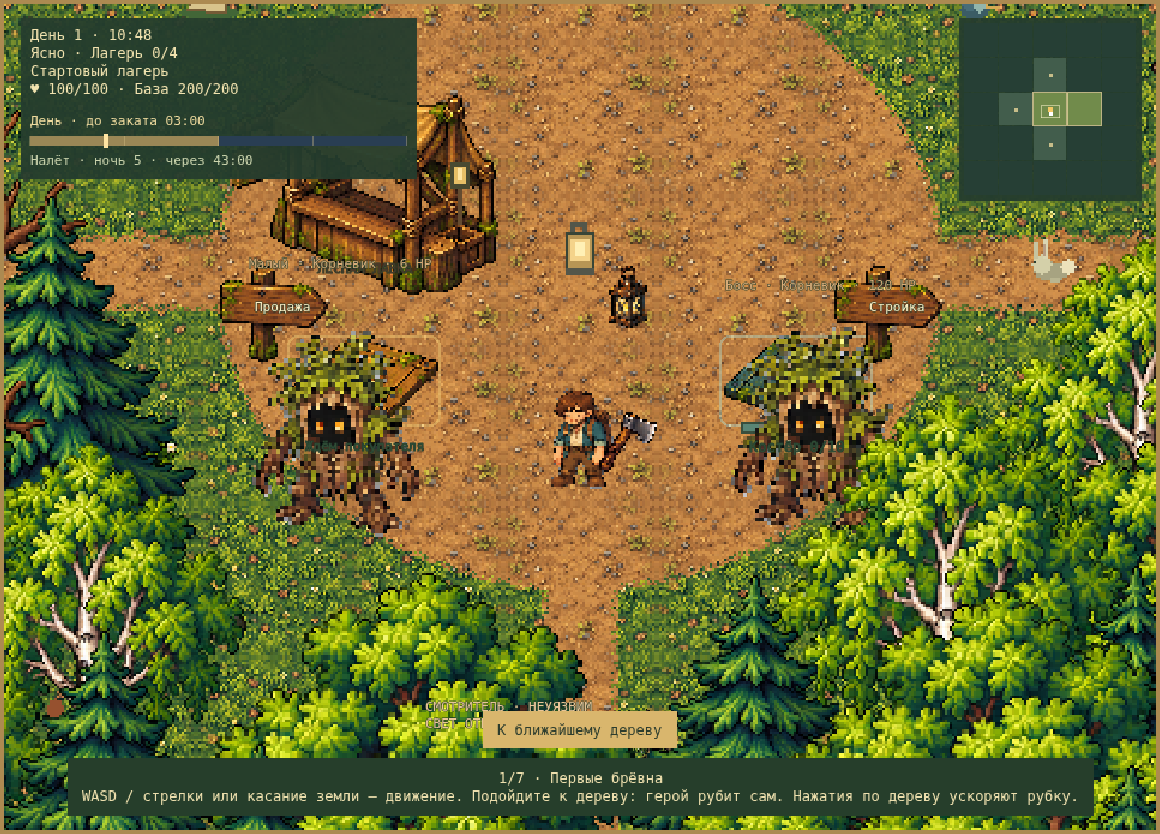
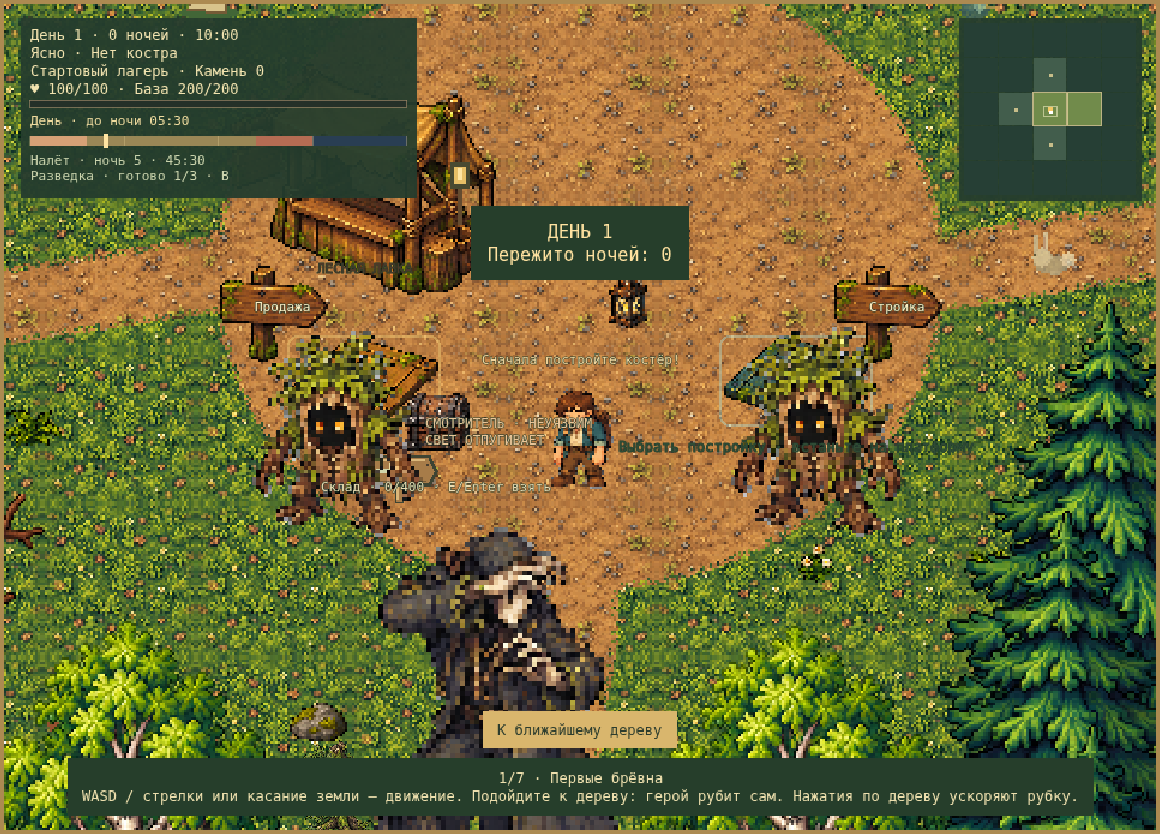
feat: enlarge watcher and add automatic campfire fuel pad

diff --git a/game/camp-services.js b/game/camp-services.js
@@ -6,22 +6,31 @@ import { campFuelLimit, campStorageLimit, industryLevel } from "./camp-industry-
 export const CAMP_SERVICE = Object.freeze({
   store: { x: 1480, y: 1740 }, door: { x: CAMP.hut.x, y: CAMP.hut.y + 28 },
   fuelPerLog: 60, maxFuel: 600, storeLimit: 400,
+  fuelPad: {x:1696,y:1616,radius:32}, fuelPadSeconds:0.8, // Стоя на площадке: одно бревно за 0,8 с, только если помещаются все 60 с топлива.
 });
 export const ROOM = Object.freeze({ width: 480, height: 352, exit: { x: 240, y: 316 }, chest: { x: 100, y: 130 } });
 
 // Shared fuel/storage; personal location and indoor movement. No renderer owns resources.
 export function createCampServices({ state, player, forestry, canAct, nav, emit = () => {} }) {
+  let fuelPadTimer=0;
   const near = p => Math.hypot(player.x - p.x, player.y - p.y) < 110 && nav.hasLineOfSight(player, p);
   const living = () => state.health > 0 && !state.gameOver;
   const lit = () => hasCampBuilding(state,"fire") && state.campFuel > 0;
+  const atFuelPad=()=>Math.hypot(player.x-CAMP_SERVICE.fuelPad.x,player.y-CAMP_SERVICE.fuelPad.y)<=CAMP_SERVICE.fuelPad.radius&&nav.hasLineOfSight(player,{x:CENTER.x,y:CENTER.y+48});
   function stoke(quoted = false, material = "wood") {
     const seconds=material==="coal"?180:CAMP_SERVICE.fuelPerLog;
-    if (!['wood','coal'].includes(material) || !(quoted ? living() : canAct()) || !near({x:CENTER.x,y:CENTER.y+48}) || !hasCampBuilding(state,"fire") ||
+    if (!['wood','coal'].includes(material) || !(quoted ? living() : canAct()) || !(near({x:CENTER.x,y:CENTER.y+48})||atFuelPad()) || !hasCampBuilding(state,"fire") ||
       (material==="wood"?!state.wood:!(state.campIndustry?.materials.coal>0)) || state.campFuel > campFuelLimit(state)-seconds) return false;
     if(material==="wood")forestry.takeCargo();else state.campIndustry.materials.coal--;
     state.campFuel += seconds;
     state.campMilestones.lit=true;
     emit("camp-stoked", {}); return true;
+  }
+  function updateFuelPad(dt){
+    if(!Number.isFinite(dt)||dt<=0)return;
+    if(!canAct()||!atFuelPad()||!hasCampBuilding(state,"fire")||!state.wood||state.campFuel>campFuelLimit(state)-CAMP_SERVICE.fuelPerLog){fuelPadTimer=0;return;}
+    fuelPadTimer+=dt;
+    if(fuelPadTimer>=CAMP_SERVICE.fuelPadSeconds){fuelPadTimer=0;stoke();}
   }
   function store(action = "deposit") {
     const atChest = player.room && Math.hypot(player.room.x - ROOM.chest.x, player.room.y - ROOM.chest.y) < 90;
@@ -73,6 +82,7 @@ export function createCampServices({ state, player, forestry, canAct, nav, emit 
     if (before && !lit()) emit("camp-extinguished", {});
     if (before && state.campFuel <= 30 && state.campFuel + dt > 30) emit("camp-low-fuel", {});
   }
-  return { near, lit, stoke, store, enter, exit, moveRoom, update,
+  return { near, lit, stoke, store, enter, exit, moveRoom, update, atFuelPad, updateFuelPad,
+    get fuelPadProgress(){return fuelPadTimer/CAMP_SERVICE.fuelPadSeconds;},
     maxFuel:()=>campFuelLimit(state),storageLimit:()=>campStorageLimit(state) };
 }

diff --git a/phaser/camp-services-view.js b/phaser/camp-services-view.js
@@ -10,6 +10,10 @@ export class CampServicesView {
     scene.hut.setInteractive({ pixelPerfect: true }).setData("campHouse", true);
     scene.tent.setInteractive({ pixelPerfect: true }).setData("campTent", true);
     this.fireLabel = scene.text("", 1600, 1672, 11, "#f3d79f", LAYERS.hints);
+    const pad=CAMP_SERVICE.fuelPad;
+    this.fuelPad=scene.add.graphics().setDepth(pad.y-1);
+    this.fuelZone=scene.add.zone(pad.x,pad.y,64,48).setInteractive().setData("fuelPad",true);
+    this.fuelLabel=scene.text("",pad.x,pad.y+38,11,"#f3d79f",LAYERS.hints);
   }
   render() {
     const s = this.scene, c = s.core, wanted = new Set();
@@ -31,9 +35,15 @@ export class CampServicesView {
     this.label.setText(`Склад · ${c.state.logStore.length}/${c.camp.storageLimit()} · E/Enter ${c.state.wood ? "сложить" : "взять"}`);
     this.fireLabel.setText(hasCampBuilding(c.state,"fire") ? `${c.camp.lit() ? "Огонь" : "ПОТУХШИЙ КОСТЁР"} · ${Math.ceil(c.state.campFuel)} с · E/Enter +1 бревно` : "Сначала постройте костёр!");
     s.worldHints.offer(this.label,CAMP_SERVICE.store,{range:200,priority:70});
-    s.worldHints.offer(this.fireLabel,{x:1600,y:1648},{range:210,priority:75});
+    const pad=CAMP_SERVICE.fuelPad,built=hasCampBuilding(c.state,"fire"),active=(c.actors||[c]).some(a=>a.camp.atFuelPad()&&a.state.health>0&&!a.player.room);
+    s.worldHints.offer(this.fireLabel,{x:1600,y:1648},{eligible:!active,range:210,priority:75});
+    this.fuelZone.setVisible(built);this.fuelZone.input.enabled=built;
+    this.fuelPad.clear();if(built){this.fuelPad.fillStyle(active?0x93733b:0x385546,.8).fillEllipse(pad.x,pad.y,64,40).lineStyle(2,0xe1bf70,.9).strokeEllipse(pad.x,pad.y,64,40);
+      this.fuelPad.lineStyle(3,0xe1bf70).lineBetween(pad.x-9,pad.y,pad.x+9,pad.y).lineBetween(pad.x,pad.y-8,pad.x,pad.y+8);}
+    this.fuelLabel.setText(c.state.campFuel>c.camp.maxFuel()-CAMP_SERVICE.fuelPerLog?"Запас почти полон":active&&!((c.actors||[c]).some(a=>a.camp.atFuelPad()&&a.state.wood>0))?"Нужны брёвна в руках":"Поддерживать огонь\n1 бревно → +60 с");
+    s.worldHints.offer(this.fuelLabel,pad,{eligible:built,range:180,priority:70});
   }
-  destroy() { for(const e of this.rocks.values()){e.image.destroy();e.label.destroy();} this.rocks.clear(); }
+  destroy() { this.fuelPad.destroy();this.fuelZone.destroy();this.fuelLabel.destroy();for(const e of this.rocks.values()){e.image.destroy();e.label.destroy();} this.rocks.clear(); }
 }
 
 // A separate walkable interior per viewport; the outdoor simulation keeps running.

diff --git a/phaser/world-scene.js b/phaser/world-scene.js
@@ -1,4 +1,5 @@
 import { CampCustomView } from "./camp-custom-view.js";
+import { CAMP_SERVICE } from "../game/camp-services.js";
 import { renderGeneratedPerson } from "./people-assets.js";
 import { WorkerView } from "./worker-view.js";
 import { createWorkerUi } from "./worker-ui.js";
@@ -501,6 +502,7 @@ export class WorldScene extends Phaser.Scene {
       if(this.customView?.selection){if(!this.core.coop||this.core.activeActor===this.customView.selection.actor){const camera=this.coopCamera?.second?.visible&&this.core.activeActor===1?this.coopCamera.second:this.camera;this.customView.place(camera.getWorldPoint(pointer.x,pointer.y));}return;}
       if(over.some(o=>o.getData("customBoard"))){this.customView.open();return;}
       if (this.core.player.room) { this.houseView.pointer(pointer,this.core.activeActor||0); return; }
+      if(over.some(o=>o.getData("fuelPad"))){const p=CAMP_SERVICE.fuelPad;this.core.setDestination(p.x,p.y);return;}
       const industrySite=over.find(o=>o.getData("industrySite"));
       if(industrySite){const id=industrySite.getData("industrySite");this.campDesk.open(id.startsWith("lamp")||id.startsWith("tower")?"defense":"production");return;}
       const service = over.find(o => o.getData("campStore") || o.getData("campHouse") || o.getData("campTent"));

diff --git a/phaser/enemy-view.js b/phaser/enemy-view.js
@@ -101,7 +101,7 @@ export class EnemyView {
         key = `enemy.${e.family}.${e.windup > 0 ? "attack" : frame ? "walk" : "idle"}`;
       s.assets.setFrame(o.image, key);
       o.image.setScale(
-        small
+        e.invulnerable ? 4 : small
           ? 3.3
           : e.tier === "boss"
             ? 3.375
@@ -140,7 +140,7 @@ export class EnemyView {
           e.x,
           e.y -
             (e.invulnerable
-              ? 208
+              ? Math.max(208,o.image.displayHeight*o.image.originY+20)
               : small
                 ? 228
                 : e.tier === "boss"

diff --git a/game/simulation.js b/game/simulation.js
@@ -933,6 +933,7 @@ export function createSimulation({
     if (!enemy && !nearest && rock) mining.hit(rock.id, "auto");
     if (canAct() && forestry.collect(dt, player)) updateUI();
     sawmill?.freight.sync();
+    camp.updateFuelPad(dt);
     if (!actorOnly) survival?.update(dt);
     if (!actorOnly && !gameState.gameOver) preparation.update(dt);
     if (!actorOnly || alive) combatLoot.update(dt);

diff --git a/tests/fuel_pad_smoke.py b/tests/fuel_pad_smoke.py
@@ -1,0 +1,43 @@
+"""Only automatic fuel-pad rendering, navigation, shared consumption and cold ignition."""
+from functools import partial
+from http.server import ThreadingHTTPServer,SimpleHTTPRequestHandler
+from pathlib import Path
+from threading import Thread
+from shutil import which
+from playwright.sync_api import sync_playwright
+from helpers.browser_start import choose_hero
+ROOT=Path(__file__).resolve().parents[1]
+class Handler(SimpleHTTPRequestHandler):
+    def log_message(self,*args):pass
+server=ThreadingHTTPServer(('127.0.0.1',0),partial(Handler,directory=str(ROOT)))
+Thread(target=server.serve_forever,daemon=True).start()
+try:
+    with sync_playwright() as p:
+        for mobile in [False,True]:
+            browser=p.chromium.launch(headless=True,executable_path=which('chromium'),args=['--no-sandbox']+(['--disable-webgl'] if mobile else ['--use-angle=swiftshader','--enable-unsafe-swiftshader']))
+            q=browser.new_page(viewport={'width':390 if mobile else 1360,'height':844 if mobile else 1050},is_mobile=mobile,has_touch=mobile);errors=[]
+            q.on('pageerror',lambda e:errors.append(str(e)))
+            q.goto(f'http://127.0.0.1:{server.server_port}/'+('dist/' if mobile else ''))
+            q.wait_for_selector('#heroDialog[open]');q.locator(f'[name=players][value="{1 if mobile else 2}"]').check();choose_hero(q)
+            q.evaluate('''window.g=lumberPhaser;window.w=g.scene;window.m=g.core;window.a=m.actors?.[0]||m;w.manual=true;g.step(0)''')
+            assert q.evaluate('!w.campServicesView.fuelZone.visible&&!w.campServicesView.fuelZone.input.enabled&&m.state.campFuel===0')
+            q.evaluate('''m.state.campBuildings={fire:true};m.state.campLevel=1;m.state.campFuel=0;a.refreshWorld();Object.assign(a.player,{x:1696,y:1736,path:[],autoTimer:10000});a.forestry.addCargo(7);a.forestry.addCargo(12);g.step(0)''')
+            assert q.evaluate('w.campServicesView.fuelZone.visible&&w.campServicesView.fuelZone.input.enabled&&m.state.campFuel===0')
+            q.wait_for_timeout(650)
+            point=q.evaluate('(()=>{const v=w.camera.worldView;return{x:(1696-v.x)*w.camera.zoom,y:(1616-v.y)*w.camera.zoom,width:w.scale.width,height:w.scale.height}})()')
+            box=q.locator('canvas').first.bounding_box();x=box['x']+point['x']*box['width']/point['width'];y=box['y']+point['y']*box['height']/point['height']
+            if mobile:q.touchscreen.tap(x,y)
+            else:q.mouse.click(x,y)
+            assert q.evaluate('a.player.path.length>0')
+            q.evaluate('g.step(2)')
+            assert q.evaluate('a.camp.atFuelPad()&&a.state.wood===1&&m.state.campFuel>59&&m.state.campFuel<=60'),q.evaluate('({player:a.player,wood:a.state.wood,fuel:m.state.campFuel,pad:a.camp.atFuelPad()})')
+            q.evaluate('w.pause("test",true);window.fuel=m.state.campFuel;g.step(5)')
+            assert q.evaluate('m.state.campFuel===fuel&&a.state.wood===1')
+            q.evaluate('w.pause("test",false);g.step(.9)')
+            assert q.evaluate('a.state.wood===0&&m.state.campFuel>118&&m.state.campFuel<120')
+            q.locator('#game-frame').screenshot(path=str(ROOT/f'docs/fuel-pad-{"mobile" if mobile else "coop"}.png'))
+            q.evaluate('window.old=m;w.scene.restart();void 0');q.wait_for_function('lumberPhaser.core!==old&&lumberPhaser.scene.hudReady')
+            assert q.evaluate('!lumberPhaser.scene.campServicesView.fuelZone.visible&&lumberPhaser.core.state.campFuel===0')
+            assert not errors,errors
+            print('PASS fuel pad navigation, ignition, pause and reset',mobile,flush=True);browser.close()
+finally:server.shutdown()

diff --git a/tests/watcher_smoke.py b/tests/watcher_smoke.py
@@ -69,8 +69,8 @@ try:
                 'w.assets.meta.has("survival.watcher.windup")&&w.textures.get("forest").getSourceImage().height<=2048'
             )
             # Real spawned actors reuse their PNG frames; only the presentation grows.
-            q.evaluate("const r=m.regions.all.find(r=>r.id==='1:0');m.regions.unlocked.add(r.id);m.world.generate(r);m.nav.rebuildObstacles();m.state.worldTime=299.99;g.step(.02)")
-            assert q.evaluate("m.survival.minions.length>0&&m.survival.regionalBosses.length>0&&m.survival.minions.every(e=>w.enemyView.objects.get(e.id).image.scaleX===3.3)&&m.survival.regionalBosses.every(e=>w.enemyView.objects.get(e.id).image.scaleX===3.375)&&w.enemyView.objects.get('watcher').image.scaleX===2")
+            q.evaluate("const r=m.regions.all.find(r=>r.id==='1:0');m.regions.unlocked.add(r.id);m.world.generate(r);m.nav.rebuildObstacles();m.state.worldTime=449.99;g.step(.02)")
+            assert q.evaluate("m.survival.minions.length>0&&m.survival.regionalBosses.length>0&&m.survival.minions.every(e=>w.enemyView.objects.get(e.id).image.scaleX===3.3)&&m.survival.regionalBosses.every(e=>w.enemyView.objects.get(e.id).image.scaleX===3.375)&&w.enemyView.objects.get('watcher').image.scaleX===4")
             # Keep the boss near the viewport edge: its tall silhouette must not be culled.
             q.evaluate("window.boss=m.survival.regionalBosses[0];window.small=m.survival.minions[0];const v=w.camera.worldView;Object.assign(boss,{x:m.player.x+110,y:v.bottom+150});m.selectedEnemyId=small.id;g.step(0)")
             assert q.evaluate("w.enemyView.objects.get(boss.id).image.visible&&w.enemyView.objects.get(small.id).label.y===small.y-228&&w.enemyView.objects.get(boss.id).label.y===boss.y-210")
@@ -92,7 +92,7 @@ try:
             click_setting(q, "#sound")
             q.wait_for_function('w.audio.context.state==="running"')
             q.evaluate(
-                "window.cues=[];const cue=w.audio.watcherCue.bind(w.audio);w.audio.watcherCue=(...args)=>{cues.push(args[0]);return cue(...args)};m.state.campLevel=1;m.nav.rebuildObstacles();m.state.worldTime=299.99;g.step(.02);g.step(12.1)"
+                "window.cues=[];const cue=w.audio.watcherCue.bind(w.audio);w.audio.watcherCue=(...args)=>{cues.push(args[0]);return cue(...args)};m.state.campLevel=1;m.nav.rebuildObstacles();m.state.worldTime=449.99;g.step(.02);g.step(12.1)"
             )
             assert q.evaluate(
                 'm.survival.monster.phase==="repelled"&&m.state.health===100'
@@ -180,7 +180,7 @@ try:
             q.wait_for_function("!w.enemyView.fade", timeout=3000)
             # In silence the same telegraph remains visible and standing still is lethal.
             q.evaluate(
-                "m.state.worldTime=299.99;g.step(.02);g.step(12.1);const p=m.nav.nearestGround(1600,2000);Object.assign(m.player,p,{path:[],autoTimer:1000});Object.assign(m.survival.monster,{x:p.x+40,y:p.y,repath:100,path:[],senseTimer:0});g.step(.05)"
+                "m.state.worldTime=449.99;g.step(.02);g.step(12.1);const p=m.nav.nearestGround(1600,2000);Object.assign(m.player,p,{path:[],autoTimer:1000});Object.assign(m.survival.monster,{x:p.x+40,y:p.y,repath:100,path:[],senseTimer:0});g.step(.05)"
             )
             phase(q, "windup")
             assert q.evaluate("!w.audio.enabled&&h.watcherHud.label.visible")

diff --git a/docs/WATCHER.md b/docs/WATCHER.md
@@ -68,3 +68,5 @@ python tests/watcher_smoke.py
 Текущие примеры: [масштаб врагов](enemy-scale.png), [атака на ПК](watcher-tracking-desktop.png), [атака на телефоне](watcher-tracking-mobile.png). Прежние снимки с неподвижным кругом описывают старое поведение. Старые измерения: [performance-watcher.json](performance-watcher.json). Новый замер FPS на физическом телефоне не выполнялся.
 
 При обновлении масштаба и близких атак пройдены 43 целевых проверки модели, WebGL на ПК и мобильный Canvas из `dist/`. `--scale-only` у браузерного сценария повторяет только масштаб, подписи и видимость у края экрана. Полный прогон игры не выполнялся. Сборка — 4 689 568 байт, прирост 1 141 байт к предыдущей версии; новые PNG, библиотеки и активные враги не добавлялись.
+
+Смотритель увеличен вдвое относительно прежнего изображения: масштаб 4 вместо 2 во всех фазах. Подпись поднята над фактической высотой спрайта; отсечение у края камеры учитывает его размер. Остальные враги и параметры атак сохранены. Целевая визуальная проверка: `python tests/watcher_smoke.py --scale-only`.

diff --git a/docs/PROJECT-MAP.md b/docs/PROJECT-MAP.md
@@ -43,6 +43,8 @@
 
 Целевые проверки увеличенной карты/фонаря: `node --test tests/world-scale.test.mjs tests/regions.test.mjs tests/night_horror.test.mjs tests/economy_logic.test.mjs`; после сборки `python tests/world_scale_smoke.py` проверяет новые шкалы, личную прокачку и альфа-профиль света в WebGL/Canvas. Скриншоты — `docs/shop-progress-*.png`, `docs/lantern-soft-*.png`.
 
+Площадка костра: `CAMP_SERVICE.fuelPad`, `updateFuelPad()` в `game/camp-services.js`; вызов для каждого героя — `game/simulation.js`; вид — `phaser/camp-services-view.js`. Проверки: [CAMP-PROGRESSION.md](CAMP-PROGRESSION.md). Масштаб Смотрителя — `phaser/enemy-view.js`, браузер — `tests/watcher_smoke.py --scale-only`.
+
 ## Команды по необходимости
 
 Украшения/рекорды: `game/camp-custom.js`, `game/record-book.js`, `phaser/camp-custom-view.js`; баланс/проверки — [CAMP-CUSTOM.md](CAMP-CUSTOM.md). Исключение из сброса прогресса: только местные рекорды и открытые украшения. Быстрый календарь — `state.cycleSpeed`, только `game/cycle.js`; обычный темп выбран по умолчанию.
